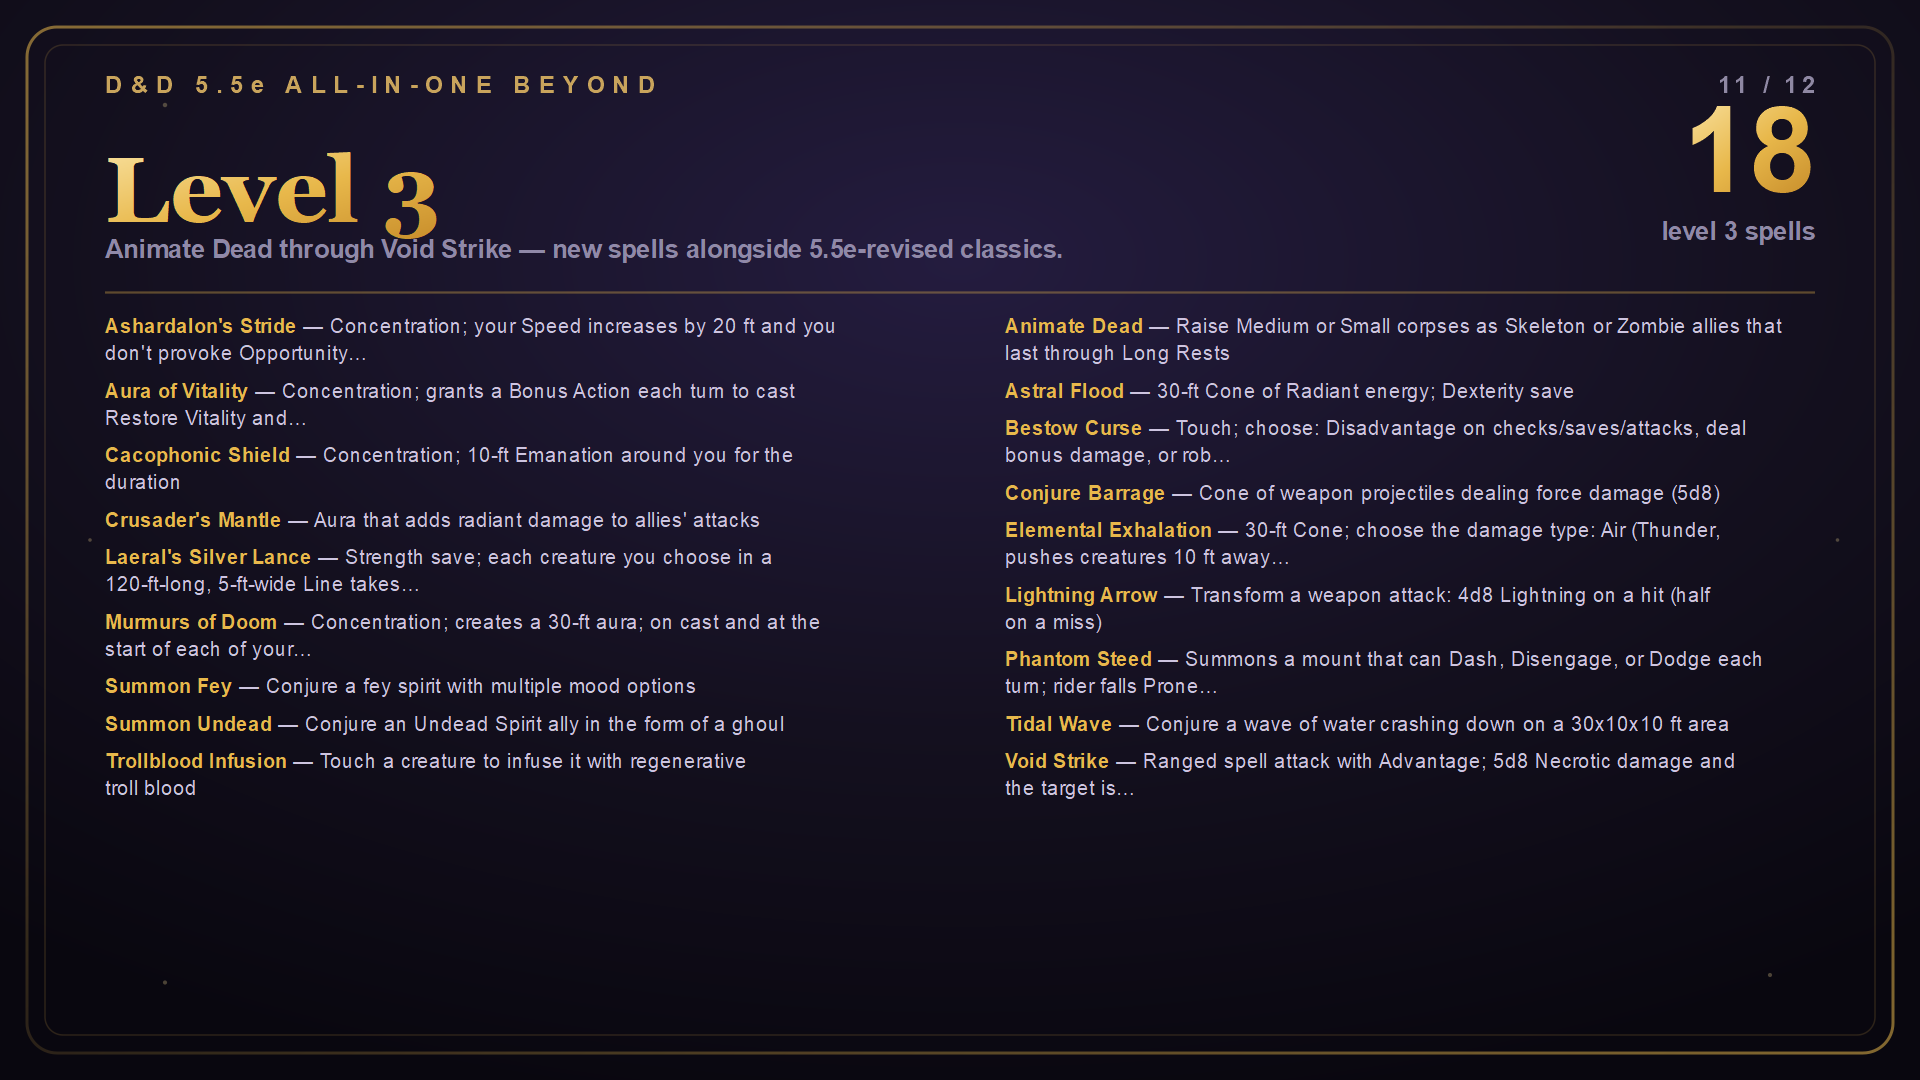
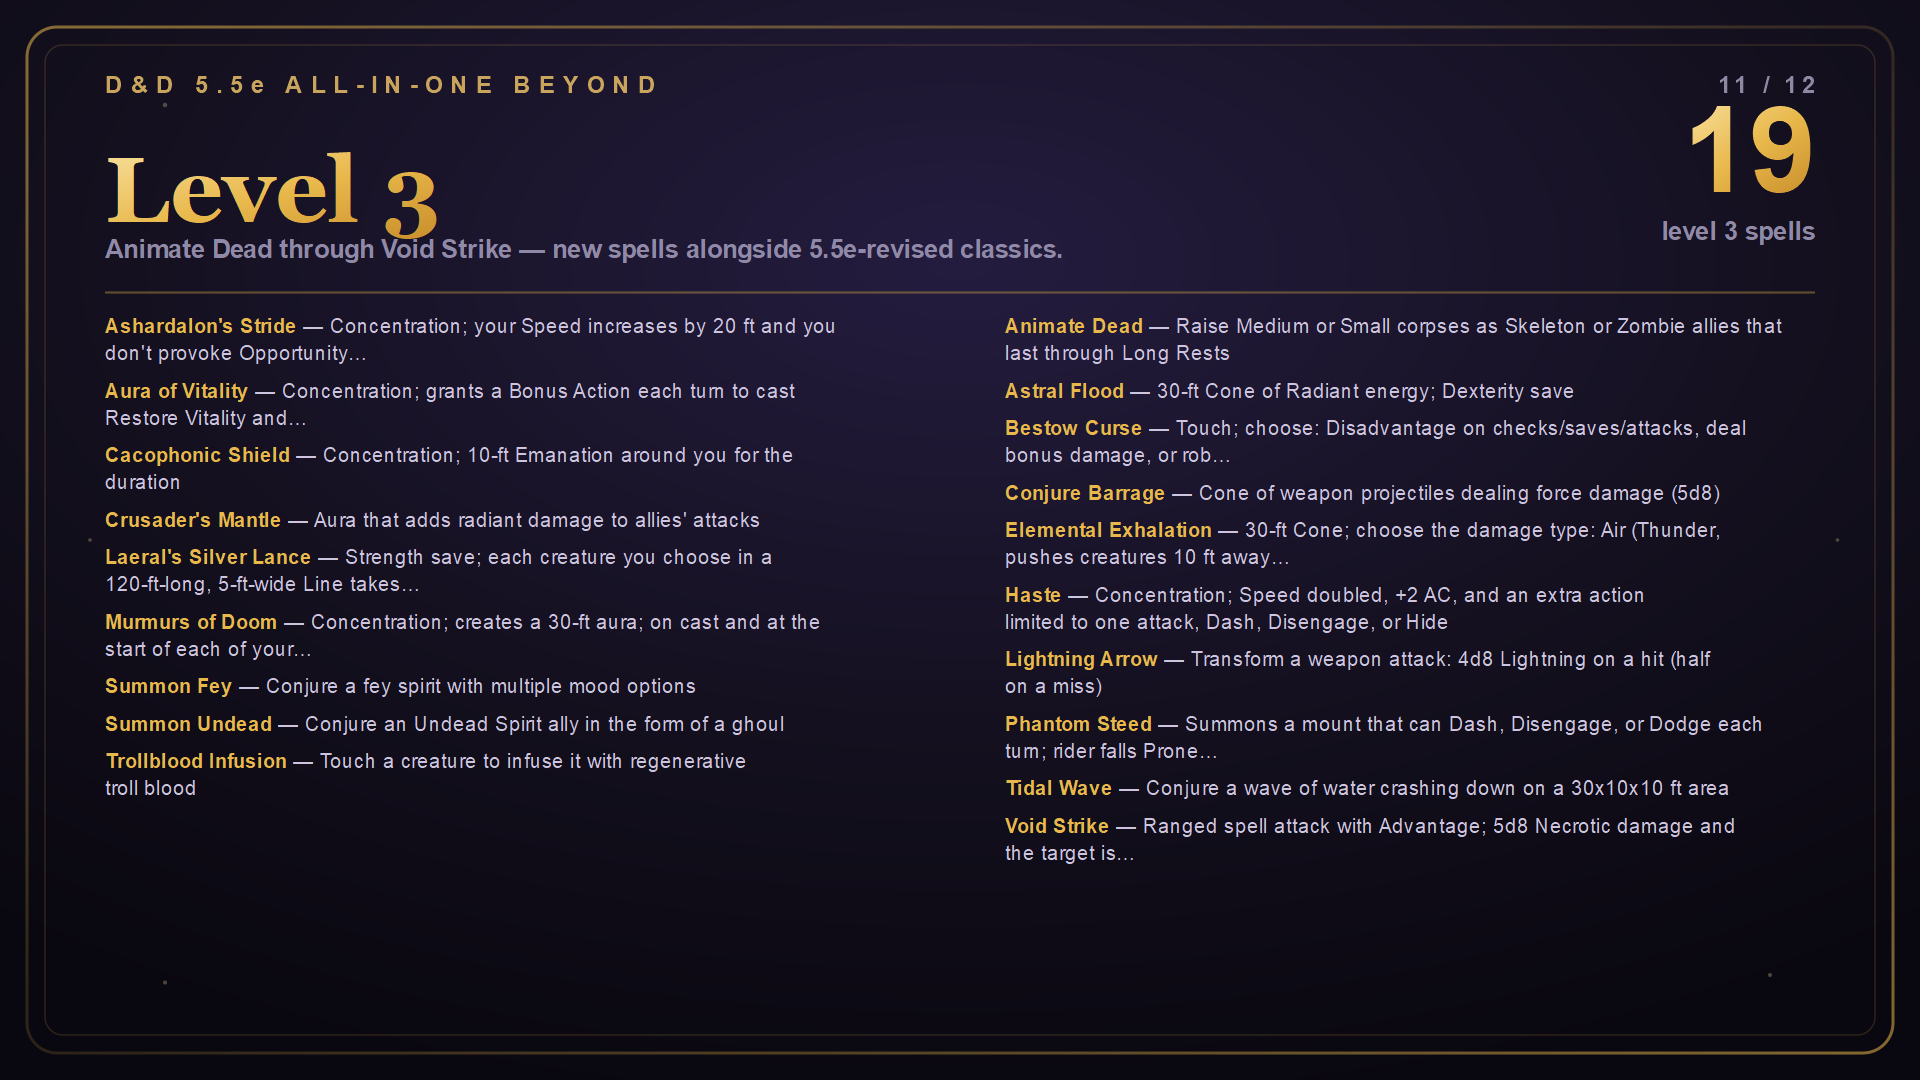
docs(spells): list Haste among the revised spells
Add Haste to the level 3 lists in the three READMEs and the level 3
slide, and count 111 new and revised spells on the thumbnail.

Changed region(s): [[0.5, 0.5194, 0.9062, 0.7944], [0.9062, 0.1222, 0.9375, 0.1833]]

diff --git a/README_Modio.html b/README_Modio.html
@@ -91,7 +91,7 @@
 <ul>
   <li><strong>Level 1:</strong> Absorb Elements, Armor of Agathys, Ballistic Smite, Body Warping of Gorgoroth, Catapult, Chromatic Orb, Cloak of Shadow, Color Spray, Command, Cure Wounds, Dissonant Whispers, False Life, Healing Word, Hell's Lash, Hideous Laughter, Hungering Blade, Spectral Slash, Spellfire Flare, Thorn Armor, Thunderous Smite, Tide of Darkness, Umbral Tendril, Wardaway, Witch Bolt, Wrathful Smite.</li>
   <li><strong>Level 2:</strong> Aganazzar's Scorcher, Arcane Vigor, Barkskin, Darkbolt, Dazing Blast, Death Armor, Dragon's Breath, Elminster's Elusion, Find Steed, Fire Rune, Gust of Wind, Lesser Restoration, Mind Spike, Moonbeam, Prayer of Healing, Rime's Binding Ice, Searing Orb, Shadow Blade, Snilloc's Snowball Swarm, Summon Beast, Tasha's Mind Whip, Warding Bond, Web.</li>
-  <li><strong>Level 3:</strong> Animate Dead, Ashardalon's Stride, Astral Flood, Aura of Vitality, Bestow Curse, Cacophonic Shield, Conjure Barrage, Crusader's Mantle, Elemental Exhalation, Laeral's Silver Lance, Lightning Arrow, Murmurs of Doom, Phantom Steed, Summon Fey, Summon Undead, Tidal Wave, Trollblood Infusion, Void Strike.</li>
+  <li><strong>Level 3:</strong> Animate Dead, Ashardalon's Stride, Astral Flood, Aura of Vitality, Bestow Curse, Cacophonic Shield, Conjure Barrage, Crusader's Mantle, Elemental Exhalation, Haste, Laeral's Silver Lance, Lightning Arrow, Murmurs of Doom, Phantom Steed, Summon Fey, Summon Undead, Tidal Wave, Trollblood Infusion, Void Strike.</li>
   <li><strong>Level 4:</strong> Arcane Eye, Charm Monster, Conjure Woodland Beings, Fire Dance, Fount of Moonlight, Murder of Crows, Spellfire Storm, Vitriolic Sphere.</li>
   <li><strong>Level 5:</strong> Awaken, Circle of Power, Cone of Cold, Dawn, Dispel Evil and Good, Dream, Enervation, Holy Weapon, Steel Wind Strike, Summon Celestial, Summon Dragon, Synaptic Static.</li>
   <li><strong>Level 6:</strong> Circle of Death, Disintegrate, Freezing Sphere, Planar Ally.</li>

diff --git a/README.md b/README.md
@@ -101,7 +101,7 @@ Acid Splash, Blade Ward, Blood Bolt, Booming Blade, Bursting Sinew, Finger Guns,
 
 - Level 1: Absorb Elements, Armor of Agathys, Ballistic Smite, Body Warping of Gorgoroth, Catapult, Chromatic Orb, Cloak of Shadow, Color Spray, Command, Cure Wounds, Dissonant Whispers, False Life, Healing Word, Hell's Lash, Hideous Laughter, Hungering Blade, Spectral Slash, Spellfire Flare, Thorn Armor, Thunderous Smite, Tide of Darkness, Umbral Tendril, Wardaway, Witch Bolt, Wrathful Smite.
 - Level 2: Aganazzar's Scorcher, Arcane Vigor, Barkskin, Darkbolt, Dazing Blast, Death Armor, Dragon's Breath, Elminster's Elusion, Find Steed, Fire Rune, Gust of Wind, Lesser Restoration, Mind Spike, Moonbeam, Prayer of Healing, Rime's Binding Ice, Searing Orb, Shadow Blade, Snilloc's Snowball Swarm, Summon Beast, Tasha's Mind Whip, Warding Bond, Web.
-- Level 3: Animate Dead, Ashardalon's Stride, Astral Flood, Aura of Vitality, Bestow Curse, Cacophonic Shield, Conjure Barrage, Crusader's Mantle, Elemental Exhalation, Laeral's Silver Lance, Lightning Arrow, Murmurs of Doom, Phantom Steed, Summon Fey, Summon Undead, Tidal Wave, Trollblood Infusion, Void Strike.
+- Level 3: Animate Dead, Ashardalon's Stride, Astral Flood, Aura of Vitality, Bestow Curse, Cacophonic Shield, Conjure Barrage, Crusader's Mantle, Elemental Exhalation, Haste, Laeral's Silver Lance, Lightning Arrow, Murmurs of Doom, Phantom Steed, Summon Fey, Summon Undead, Tidal Wave, Trollblood Infusion, Void Strike.
 - Level 4: Arcane Eye, Charm Monster, Conjure Woodland Beings, Fire Dance, Fount of Moonlight, Murder of Crows, Spellfire Storm, Vitriolic Sphere.
 - Level 5: Awaken, Circle of Power, Cone of Cold, Dawn, Dispel Evil and Good, Dream, Enervation, Holy Weapon, Steel Wind Strike, Summon Celestial, Summon Dragon, Synaptic Static.
 - Level 6: Circle of Death, Disintegrate, Freezing Sphere, Planar Ally.
